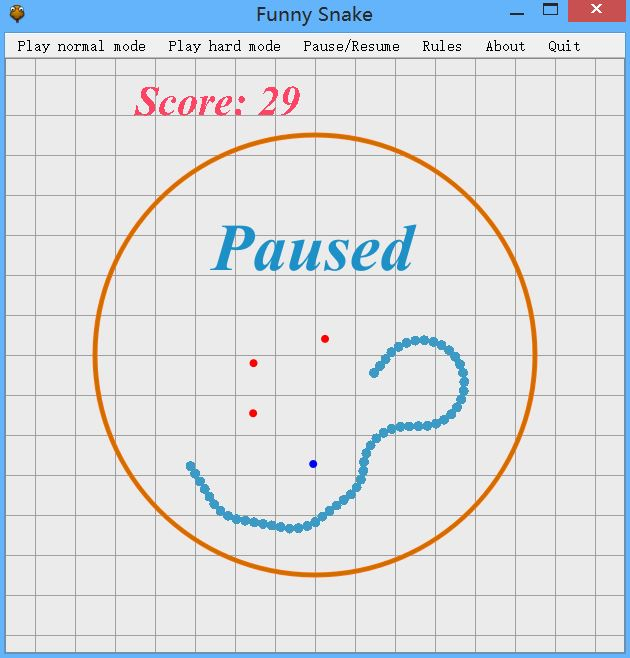
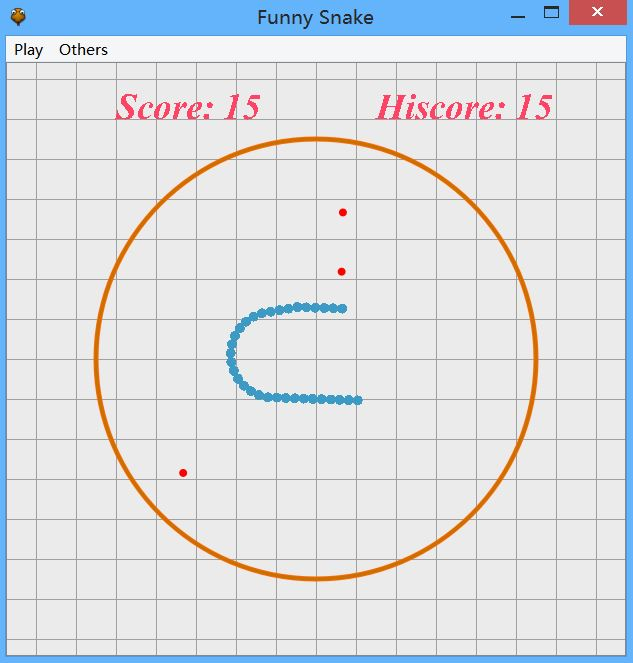
add reset hiscore function

diff --git a/src/scoreboard.cpp b/src/scoreboard.cpp
@@ -74,17 +74,20 @@ void Scoreboard::advance(int step)
 
 void Scoreboard::openHiscoreFile()
 {
+    qDebug() << "Scoreboard file opened.";
     _hiscoreFile.setFileName("hiscdata.dat");
     _hiscoreFile.open(QIODevice::ReadWrite);
 }
 
 void Scoreboard::closeHiscoreFile()
 {
+    qDebug() << "Scoreboard file closed.";
     _hiscoreFile.close();
 }
 
 void Scoreboard::readHiscores()
 {
+    qDebug() << "Scoreboard file read.";
     QDataStream in(&_hiscoreFile);
     in.device()->seek(0);
 
@@ -117,6 +120,7 @@ void Scoreboard::setNewHiscore(int newhisc)
 
 void Scoreboard::writeHiscores()
 {
+    qDebug() << "Scoreboard file written.";
     QDataStream out(&_hiscoreFile);
     out.device()->seek(0);
 
@@ -124,6 +128,13 @@ void Scoreboard::writeHiscores()
     qint32 nhs = static_cast<qint32>(_normalHiscore);
     qint32 hhs = static_cast<qint32>(_hardHiscore);
     out << static_cast<quint32>(0xA0B0C0D0) << nhs << hhs;
+}
+
+void Scoreboard::cleanHiscores()
+{
+    _normalHiscore = 0;
+    _hardHiscore = 0;
+    writeHiscores();
 }
 
 void Scoreboard::setGameMode(GameMode mode)
@@ -140,16 +151,29 @@ void Scoreboard::addScore(int score)
     }
 }
 
-void showHiscoreWindow()
+int Scoreboard::getNormalHiscore()
+{
+    return _normalHiscore;
+}
+
+int Scoreboard::getHardHiscore()
+{
+    return _hardHiscore;
+}
+
+void showHiscoreWindow(bool isInMainMenu)
 {
     QMessageBox msgBox;
-    int nhs = 0, hhs = 0;  // TODO: read and reset.
-    QString hstext = QString("Normal mode:   %1\nHard   mode:   %2").arg(nhs).arg(hhs);
+    msgBox.setWindowTitle(QObject::tr("Hiscore"));
+
+    Scoreboard sbd;
+    int nhs = sbd.getNormalHiscore(), hhs = sbd.getHardHiscore();
+    QString hstext = QString("Normal mode:    %1\nHard   mode:    %2").arg(nhs).arg(hhs);
 
     msgBox.setText(QObject::tr("  ###  Hiscore  ###"));
     msgBox.setInformativeText(hstext);
     msgBox.setStandardButtons(QMessageBox::Ok | QMessageBox::Apply);
-    msgBox.setButtonText(QMessageBox::Apply, "To be contd.");
+    msgBox.setButtonText(QMessageBox::Apply, "Reset");
     msgBox.setDefaultButton(QMessageBox::Ok);
 
     int ret = msgBox.exec();
@@ -159,6 +183,42 @@ void showHiscoreWindow()
         break;
     case QMessageBox::Apply:
         qDebug() << "Choose reset.";
+        bool result = showAssureResetWindow();
+        if (result && !isInMainMenu) {
+            QMessageBox submsgBox;
+            submsgBox.setWindowTitle(QObject::tr("Warning"));
+            submsgBox.setIcon(QMessageBox::Information);
+            submsgBox.setText(QObject::tr("Back to main menu first."));
+            submsgBox.exec();
+        }
+        else if (result) {
+            sbd.cleanHiscores();
+        }
+        break;
+    }
+}
+
+bool showAssureResetWindow()
+{
+    QMessageBox msgBox;
+    msgBox.setWindowTitle(QObject::tr("Assure"));
+    msgBox.setIcon(QMessageBox::Information);
+    msgBox.setText(QObject::tr("Sure to reset hiscore data?"));
+    msgBox.setStandardButtons(QMessageBox::Ok | QMessageBox::Cancel);
+    msgBox.setDefaultButton(QMessageBox::Cancel);
+
+    int ret = msgBox.exec();
+    switch (ret) {
+    case QMessageBox::Ok:
+        qDebug() << "Assure reset.";
+        return true;
+        break;
+    case QMessageBox::Cancel:
+        qDebug() << "Cancel reset.";
+        return false;
+        break;
+    default:
+        return false;
         break;
     }
 }

diff --git a/src/mainwindow.cpp b/src/mainwindow.cpp
@@ -93,9 +93,9 @@ void MainWindow::on_actionAbout_triggered()
 {
     QMessageBox msgBox;
     msgBox.setWindowTitle(tr("About"));
-    msgBox.setText(tr("Name: funny snake\n"\
+    msgBox.setText(tr("Name: Funny Snake\n"\
                       "Author: Shallwe\n"\
-                      "Date: 2018/10/27\n"\
+                      "Date: 2018/10/31\n"\
                       "Version: Beta\n"\
                       "Instruction: A simple snake game based on Qt5.\n"));
     msgBox.exec();
@@ -128,5 +128,5 @@ void MainWindow::on_actionPause_triggered()
 
 void MainWindow::on_actionHiscores_triggered()
 {
-    showHiscoreWindow();
+    showHiscoreWindow(game->isInMainMenu());
 }

diff --git a/inc/scoreboard.h b/inc/scoreboard.h
@@ -7,7 +7,8 @@
 
 #include "inc/constants.h"
 
-void showHiscoreWindow();
+void showHiscoreWindow(bool isInMainMenu);
+bool showAssureResetWindow();
 
 class Scoreboard : public QGraphicsItem
 {
@@ -21,6 +22,10 @@ public:
 
     void addScore(int score);
     void setGameMode(GameMode mode);
+    void cleanHiscores();
+
+    int getNormalHiscore();
+    int getHardHiscore();
 
 protected:
     void advance(int step);

diff --git a/src/gamecontroller.cpp b/src/gamecontroller.cpp
@@ -332,6 +332,11 @@ void GameController::mainMenu_buttonPressed(GameMode mode)
     }
 }
 
+bool GameController::isInMainMenu()
+{
+    return _inMainMenu;
+}
+
 void GameController::mainMenu_handleKeyPressed(QKeyEvent *event)
 {
     if (!event->isAutoRepeat()) {

diff --git a/inc/gamecontroller.h b/inc/gamecontroller.h
@@ -29,6 +29,7 @@ public:
     void snakeAteItself(Snake *snake);
 
     bool getPaused();
+    bool isInMainMenu();
 
 public slots:
     void showMainMenu();

diff --git a/README.md b/README.md
@@ -3,7 +3,7 @@
 ### 应用程序信息
 - 名称：Funny Snake
 - 作者：Shallwe
-- 日期：2018/10/27
+- 日期：2018/10/31
 - 当前版本：Beta
 - 工程概况：一个基于Qt5制作的简单贪吃蛇游戏。
 
@@ -49,5 +49,5 @@
 
 - - - - - - -  
 ### 修订记录
-- Beta (2018/10/27)  
+- Beta (2018/10/31)  
     - 测试版本。
